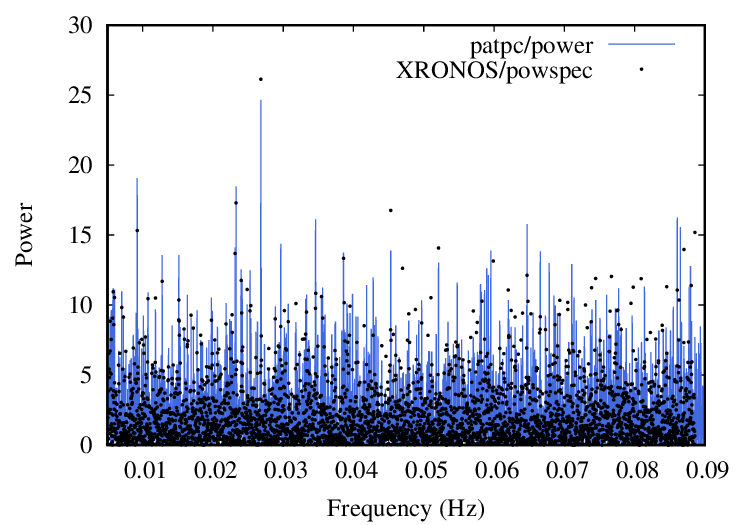
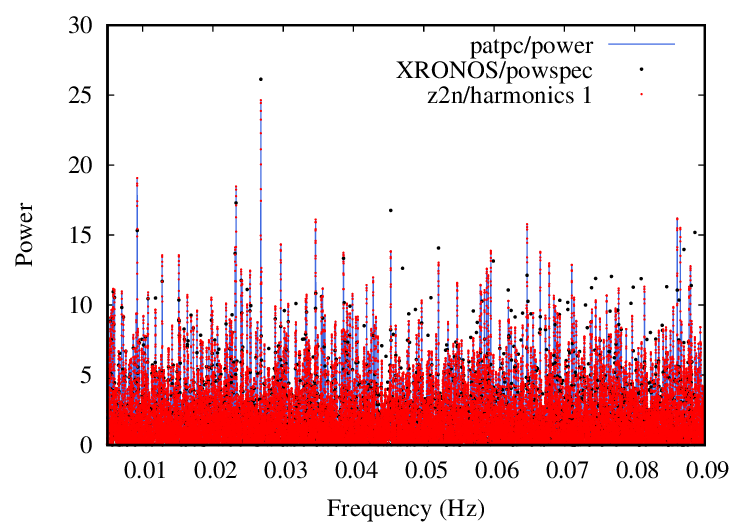
comparison with z2n-periodogram

diff --git a/README.md b/README.md
@@ -13,7 +13,7 @@ In order to compile and run the code you'll need:
 Download and unpack the archive or clone this repository, then run `make`.
 
 ### Usage
-Specify the OGIP FITS event file or a single-column ASCII file listing the photon arrival times in seconds as the command line argument:
+Specify the [OGIP FITS event file](https://heasarc.gsfc.nasa.gov/docs/heasarc/ofwg/docs/events/ogip_94_003/ogip_94_003.html) or a single-column ASCII file listing the photon arrival times in seconds as the command line argument:
 ````
 ./patpc event_file.evt
 ````
@@ -33,8 +33,18 @@ where 5000 is the maximum trial period in seconds, 5 is the minimum trial period
 ### Example plots
 
 ![](images_for_README/powerspec_comparison_with_xronos.png)
-Comparison of the power spectruma computed with `patpc` and [XRONOS](https://heasarc.gsfc.nasa.gov/xanadu/xronos/xronos.html)/`powspec`
-from the same event file.
+Comparison of the power spectra computed with `patpc`, [XRONOS](https://heasarc.gsfc.nasa.gov/xanadu/xronos/xronos.html)/`powspec`
+and [z2n-periodogram](https://github.com/YohanAlexander/z2n-periodogram) codes from the same event file.
+The slight difference with [XRONOS](https://heasarc.gsfc.nasa.gov/xanadu/xronos/xronos.html)/`powspec`
+is because it computes a different thing: rather than follow the Discrete
+Fourier Transform definition directly ([Deeming, 1975](https://ui.adsabs.harvard.edu/abs/1975Ap%26SS..36..137D/abstract)) 
+as `patpc` and `z2n-periodogram` do, 
+`powspec` produces a binned ``lightcurve'' with a regular sampling where most of 
+the measurements are 0 (no photons arrived), 
+some measurements are equal to 1 (one photon arrived) and maybe some bins have more than one photon.
+Then `powspec` runs an FFT on this lightcurve. Overall, this procedure is
+similar, but not the same as computing the Discrete Fourier Transform over
+the list of photon arrival times.
 
 ### Contribute
 
